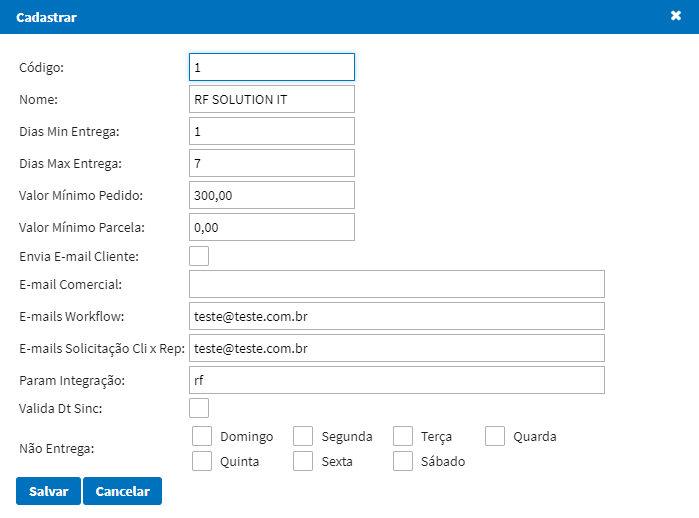
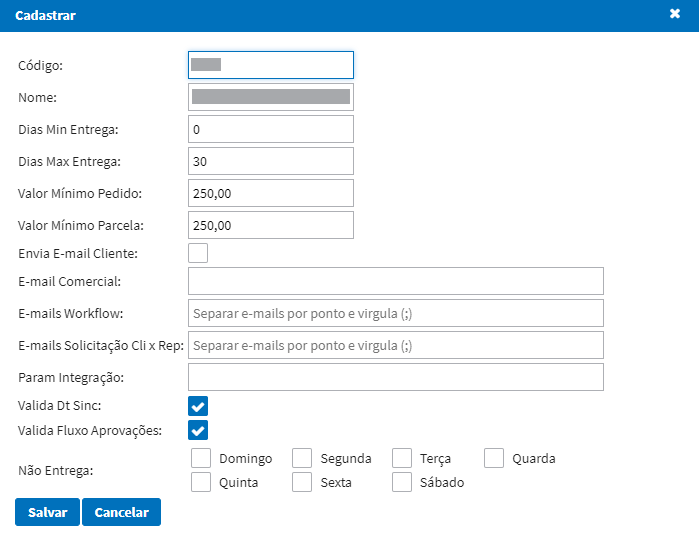
Deployed 7dab9a1 with MkDocs version: 1.6.1

diff --git a/basico/index.html b/basico/index.html
@@ -132,6 +132,10 @@
               <ul class="nav flex-column">
               </ul>
             </li>
+            <li class="nav-item" data-bs-level="2"><a href="#grupo-aprovacao" class="nav-link">Grupo Aprovação</a>
+              <ul class="nav flex-column">
+              </ul>
+            </li>
               </ul>
             </li>
         </ul>
@@ -181,7 +185,8 @@
 <li>Integrar Clientes</li>
 <li>Consulta Clientes</li>
 <li>Acompanhamento Vendas</li>
-<li>Pendências Financeiras    </li>
+<li>Pendências Financeiras   </li>
+<li>Pendência Aprovação </li>
 </ul>
 </li>
 <li>Permissões Regiões:<ul>
@@ -222,6 +227,7 @@
 <li><code>E-mails Solicitação Cli x Rep</code> -  E-mails da equipe do comercial da empresa, na qual receberão solicitações em sua caixa de e-mails sobre solicitações de novos clientes para os representantes no sistema. (Separado por ponto e vírgula, caso tiver mais de um)</li>
 <li><code>Param Integração</code> - Token de acesso para sistema externo. </li>
 <li><code>Valida Dt Sinc</code> - Caso marcado, o sistema irá validar a data de sincronização do pedido, não permitindo sincronizar pedidos com datas anteriores a atual.</li>
+<li><code>Valida Fluxo Aprovações</code> - Caso marcado, o sistema irá validar se o fluxo de aprovações está configurado para o estabelecimento.</li>
 <li><code>Não Entrega</code> - Ao marcar o flag será restringido o dia da semana marcado para que o representante não consiga sincronizar o pedido em tal data de entrega no portal. </li>
 </ul>
 <h2 id="representantes">Representantes</h2>
@@ -260,7 +266,20 @@
 <h2 id="slide-show">Slide Show</h2>
 <p>Cadastro de banners para visualização na tela inicial - Dashboard.</p>
 <p><img alt="" src="../img/basico/img10.png" /></p>
-<p><strong>Obs:</strong> Recomendado utilizar imagens de 900 x 400 pixels.</p></div>
+<p><strong>Obs:</strong> Recomendado utilizar imagens de 900 x 400 pixels.</p>
+<h2 id="grupo-aprovacao">Grupo Aprovação</h2>
+<p>Cadastro de grupos de aprovação por estabelecimento.</p>
+<p><img alt="" src="../img/basico/img11.png" /></p>
+<p><strong>Principais Campos e Parâmetros:</strong></p>
+<ul>
+<li><code>Nome</code> - Nome do grupo de aprovação.</li>
+<li><code>Estabelecimento</code> - Estabelecimento do grupo de aprovação.</li>
+<li><code>Tipo Aprovação</code> - Tipos de aprovação que o grupo irá realizar, sendo eles:</li>
+<li>Pedido - Relacionado a grupos de aprovações comerciais de pedidos de venda.</li>
+<li>Cliente - Relacionado a grupos de aprovações de pré clientes.</li>
+<li>Crédito - Relacionado a grupos de aprovações de pré clientes.</li>
+</ul>
+<p>Na aba <code>Usuários</code> é possível relacionar os usuários que irão fazer parte desse grupo de aprovação.</p></div>
             </div>
         </div>
 

diff --git a/releases/index.html b/releases/index.html
@@ -100,6 +100,14 @@
             
             <li class="nav-item" data-bs-level="1"><a href="#alteracoes" class="nav-link">Alterações</a>
               <ul class="nav flex-column">
+            <li class="nav-item" data-bs-level="2"><a href="#versao-106" class="nav-link">Versão 1.0.6</a>
+              <ul class="nav flex-column">
+              </ul>
+            </li>
+            <li class="nav-item" data-bs-level="2"><a href="#fluxo-de-aprovacao" class="nav-link">Fluxo de Aprovação</a>
+              <ul class="nav flex-column">
+              </ul>
+            </li>
             <li class="nav-item" data-bs-level="2"><a href="#versao-105" class="nav-link">Versão 1.0.5</a>
               <ul class="nav flex-column">
               </ul>
@@ -129,6 +137,16 @@
 
 <h1 id="alteracoes">Alterações</h1>
 <p>Alterações técnicas, inovação e manutenção de rotinas do sistema SFA.</p>
+<h2 id="versao-106">Versão 1.0.6</h2>
+<h2 id="fluxo-de-aprovacao">Fluxo de Aprovação</h2>
+<p>Nova técnica implementada para aprovação de pedidos caso o valor do pedido seja abaixo da tabela de preço ou for uma bonificação.</p>
+<p>Segue abaixo o fluxo de aprovação para a técnica implementada:</p>
+<ul>
+<li><a href="../basico/#grupo-aprovação">Cadastro Grupo Aprovação</a></li>
+<li><a href="../basico/#estabelecimento">Parâmetro Valida Fluxo Aprovações</a></li>
+<li><a href="../basico/#usuários">Parâmetro Pendência Aprovação</a></li>
+<li><a href="../tarefas/#pendências-aprovação">Pendências Aprovação</a></li>
+</ul>
 <h2 id="versao-105">Versão 1.0.5</h2>
 <h3 id="edita-possui-bonificacao-pedido">Edita Possui Bonificação Pedido</h3>
 <p>Nova opção disponível para que possa definir se o vendedor poderá marcar a opção para informar se o pedido possui bonificação.</p>

diff --git a/tarefas/index.html b/tarefas/index.html
@@ -104,6 +104,10 @@
               <ul class="nav flex-column">
               </ul>
             </li>
+            <li class="nav-item" data-bs-level="2"><a href="#pendencias-aprovacao" class="nav-link">Pendências Aprovação</a>
+              <ul class="nav flex-column">
+              </ul>
+            </li>
               </ul>
             </li>
         </ul>
@@ -135,7 +139,11 @@
 <p>Ao clicar sobre a imagem abrirá uma tela para o representante informar a quantidade do produto que será vendido e o sistema calculará o valor total automaticamente.</p>
 <p><img alt="" src="../img/tarefas/img5.png" /></p>
 <p>Ao terminar de incluir os itens do pedido, o representante deve sincronizar o pedido na qual será disponibilizado para o comercial faturar. </p>
-<p><img alt="" src="../img/tarefas/img6.png" /></p></div>
+<p><img alt="" src="../img/tarefas/img6.png" /></p>
+<h2 id="pendencias-aprovacao">Pendências Aprovação</h2>
+<p>Tela de pendências de aprovação, lista de pedidos pendentes de aprovação.</p>
+<p><img alt="" src="../img/tarefas/img7.png" /></p>
+<p>Usuário aprovador pode visualizar os pedidos pendentes de aprovação, aprovar ou rejeitar o pedido, caso faça parte do grupo de aprovação.de aprovação.</p></div>
             </div>
         </div>
 

diff --git a/index.html b/index.html
@@ -251,5 +251,5 @@ A aplicação conta com uma API de integração, que facilita a integração com
 
 <!--
 MkDocs version : 1.6.1
-Build Date UTC : 2024-12-16 19:05:54.998773+00:00
+Build Date UTC : 2025-03-06 18:38:08.672729+00:00
 -->
